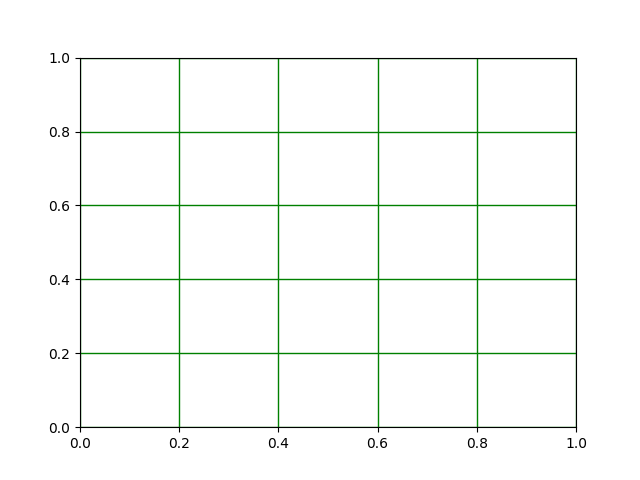
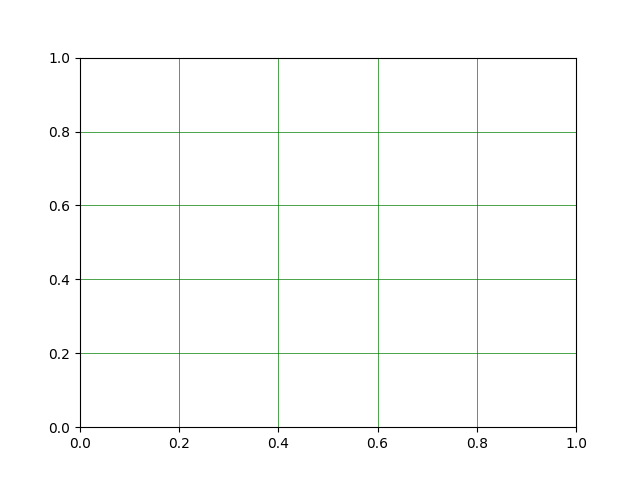
somewhat starting with the grid

Changed region(s): [[0.125, 0.125, 0.9062, 0.9062], [0.25, 0.875, 0.2812, 0.9062]]

diff --git a/code/grid/test_grid.py b/code/grid/test_grid.py
@@ -1,16 +1,14 @@
 import numpy as np
 import matplotlib.pyplot as plt
 
-x = []
-y = []
 
-for n in range(50):
-    x.append(n)
-    y.append(n)
 
-np.asarray(x)
-np.asarray(y)
+grid = []
+for row in range(50):
+    for col in range(50):
+        grid.append([row, col])
 
-plt.grid(color = 'green', linestyle = '-', linewidth = 1)
+
+plt.grid(color = 'green', linestyle = '-', linewidth = 0.5)
 
 plt.savefig("test")
